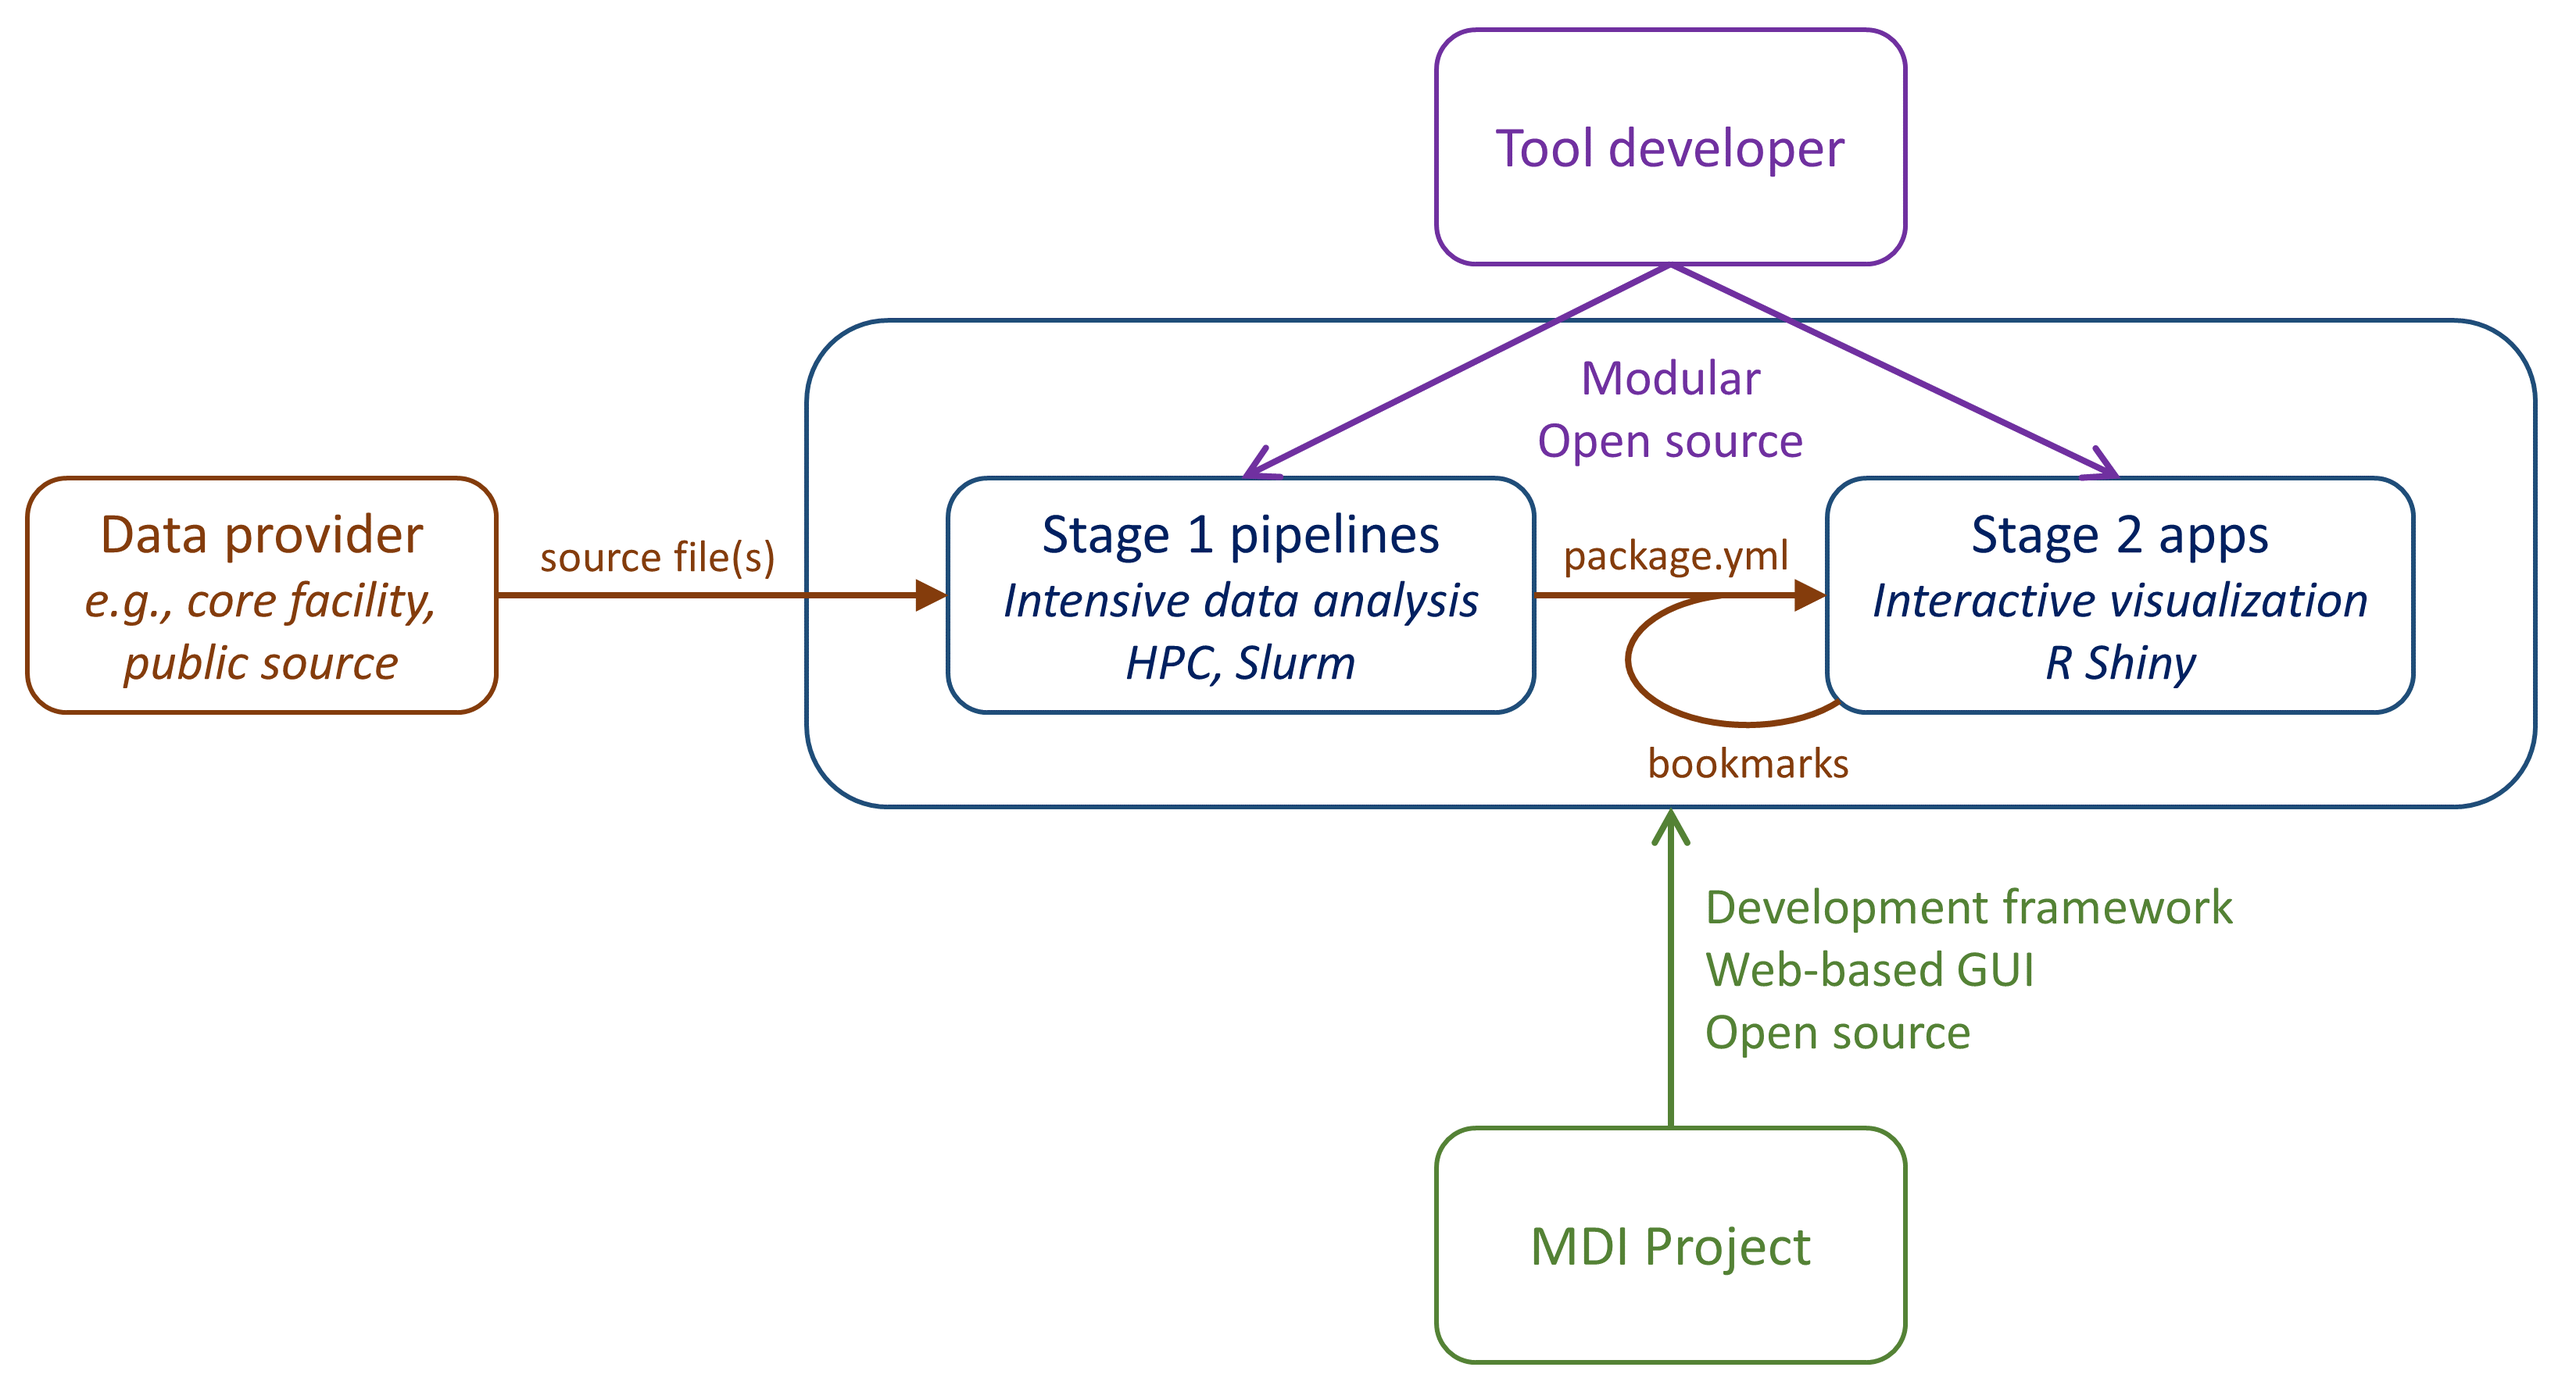
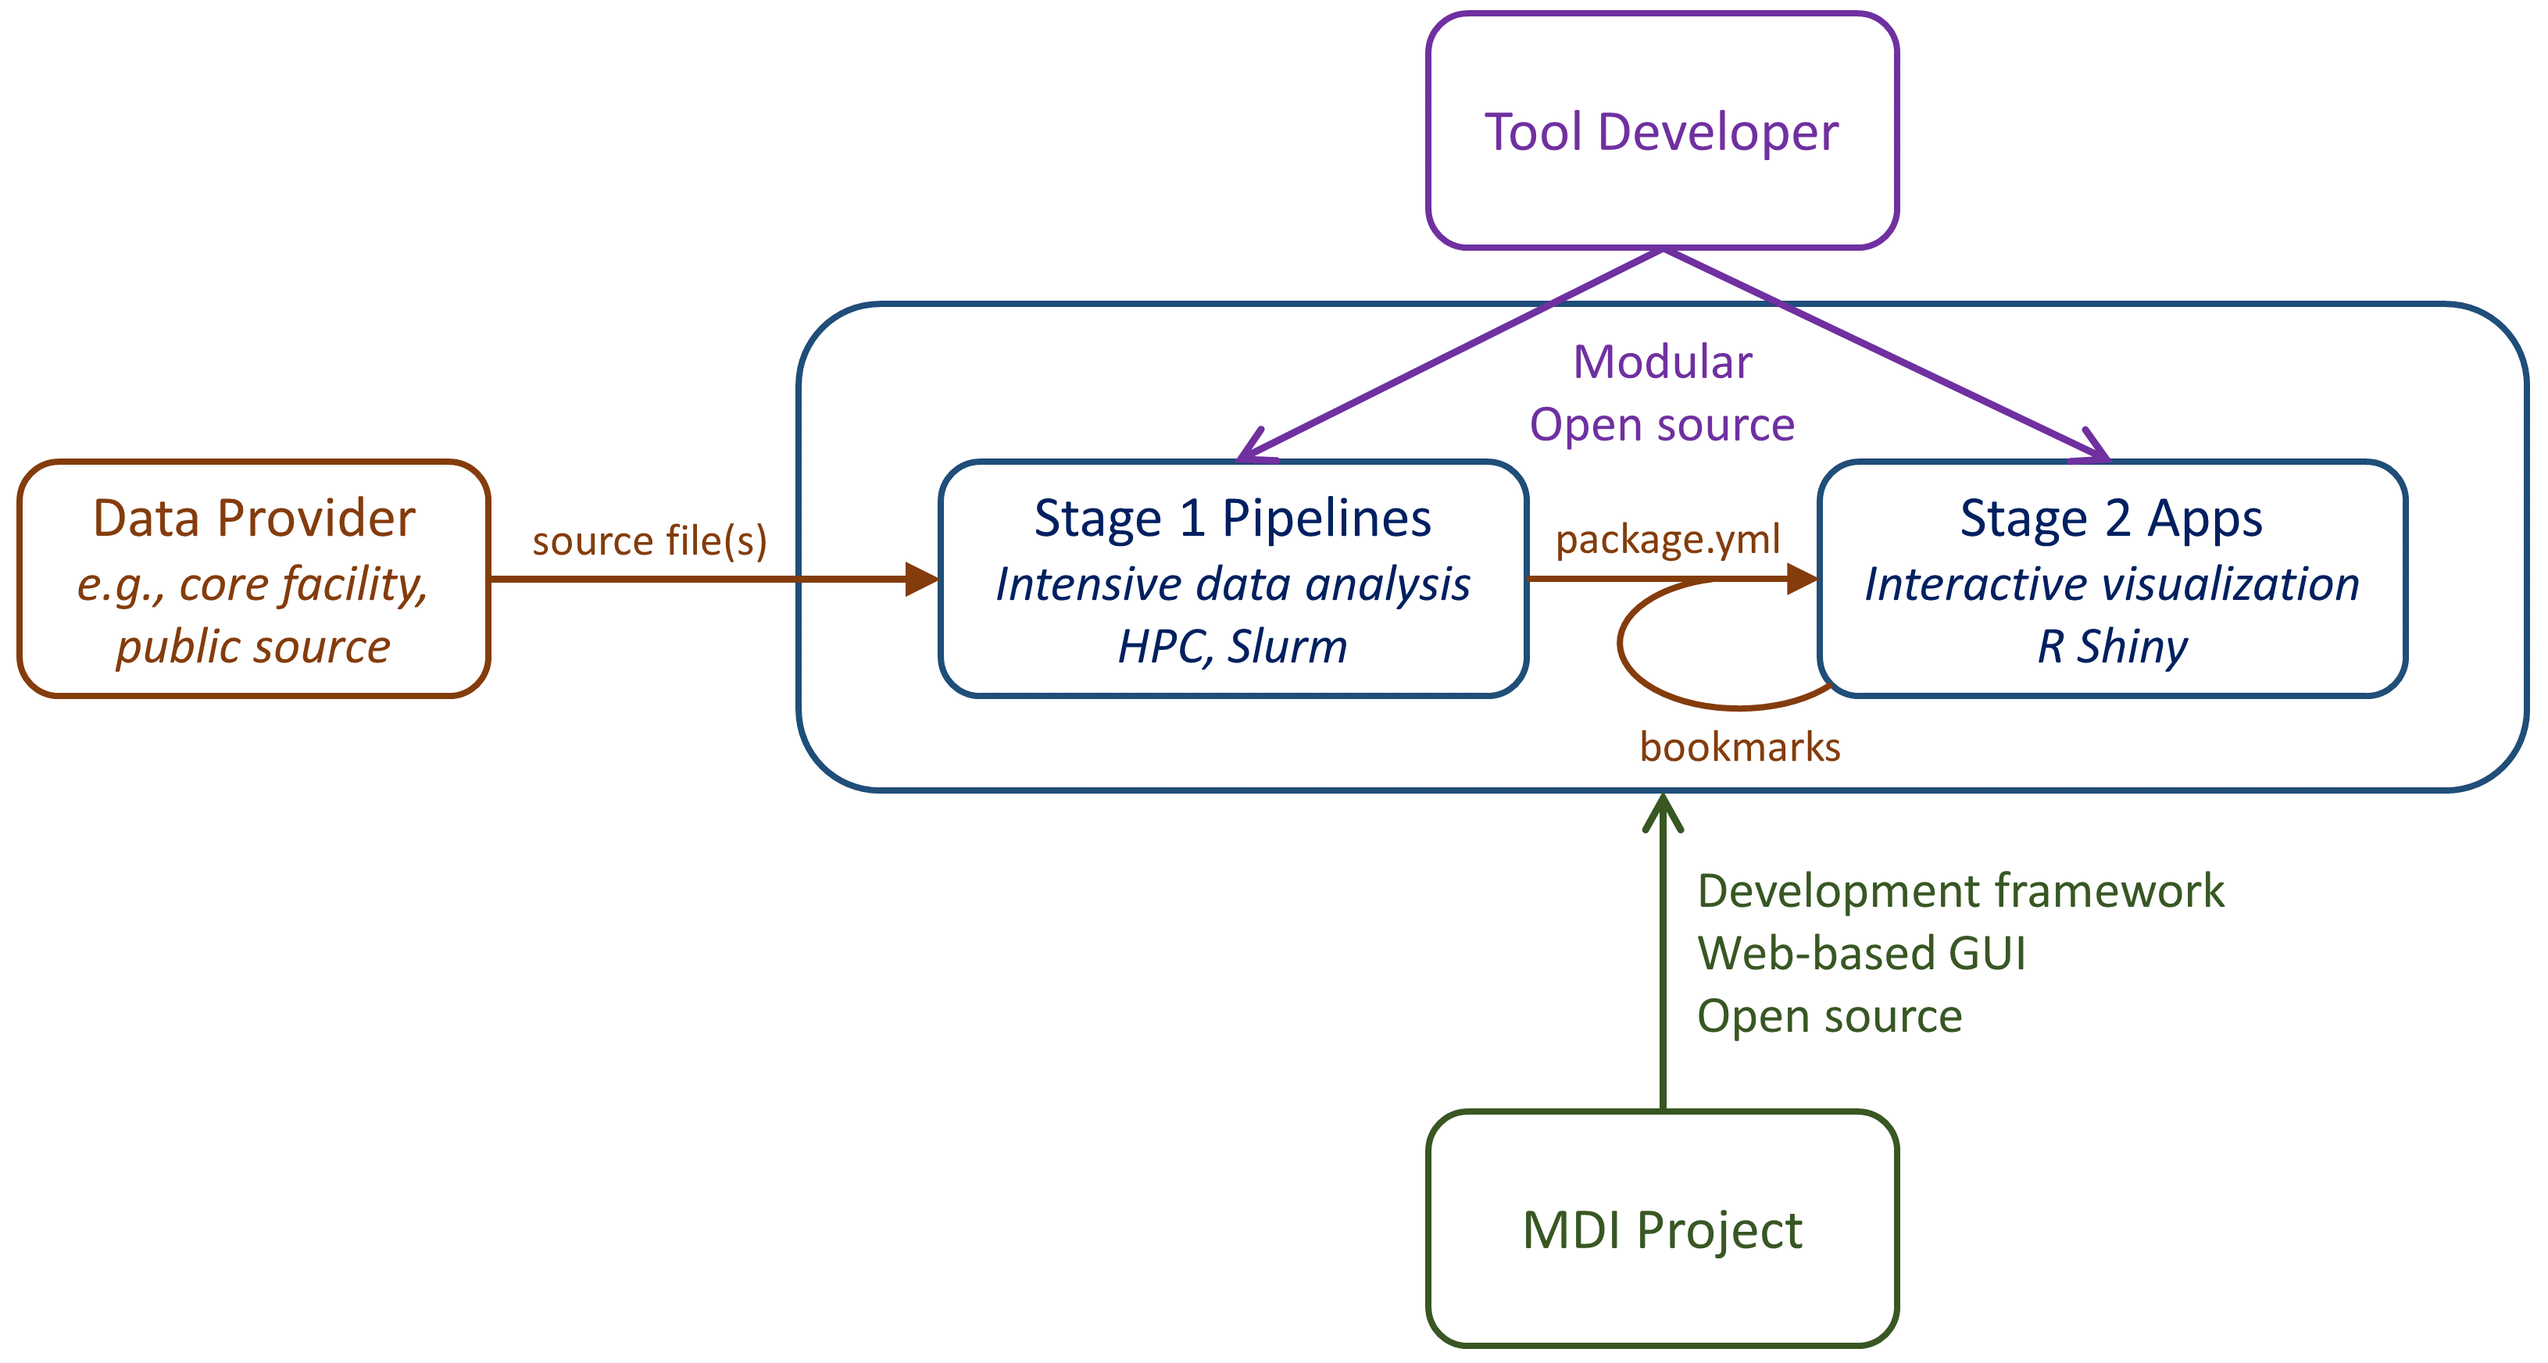
update project diagrams

diff --git a/_docs/project-structure.md b/_docs/project-structure.md
@@ -16,7 +16,7 @@ the tools most relevant to them.
 
 The following diagram illustrates the overall project structure.
 
-{% include figure.html file="repo_structure_tool_suites_cropped.jpg" %}
+{% include figure.html file="project-structure.png" %}
 
 ## Installation and Management Utilities
 
